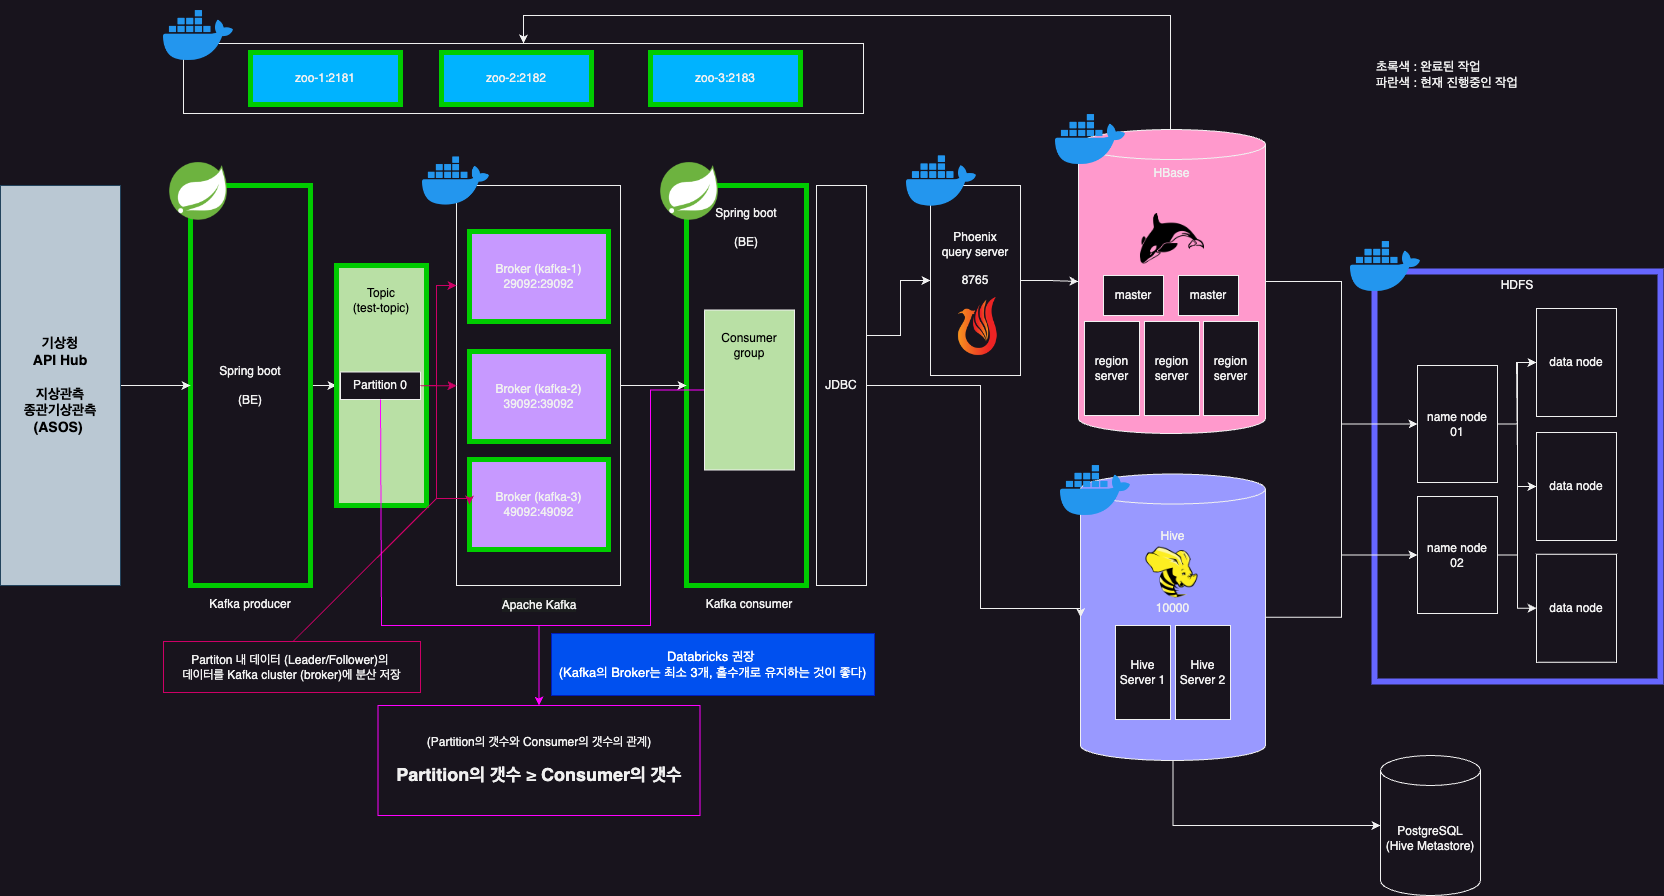
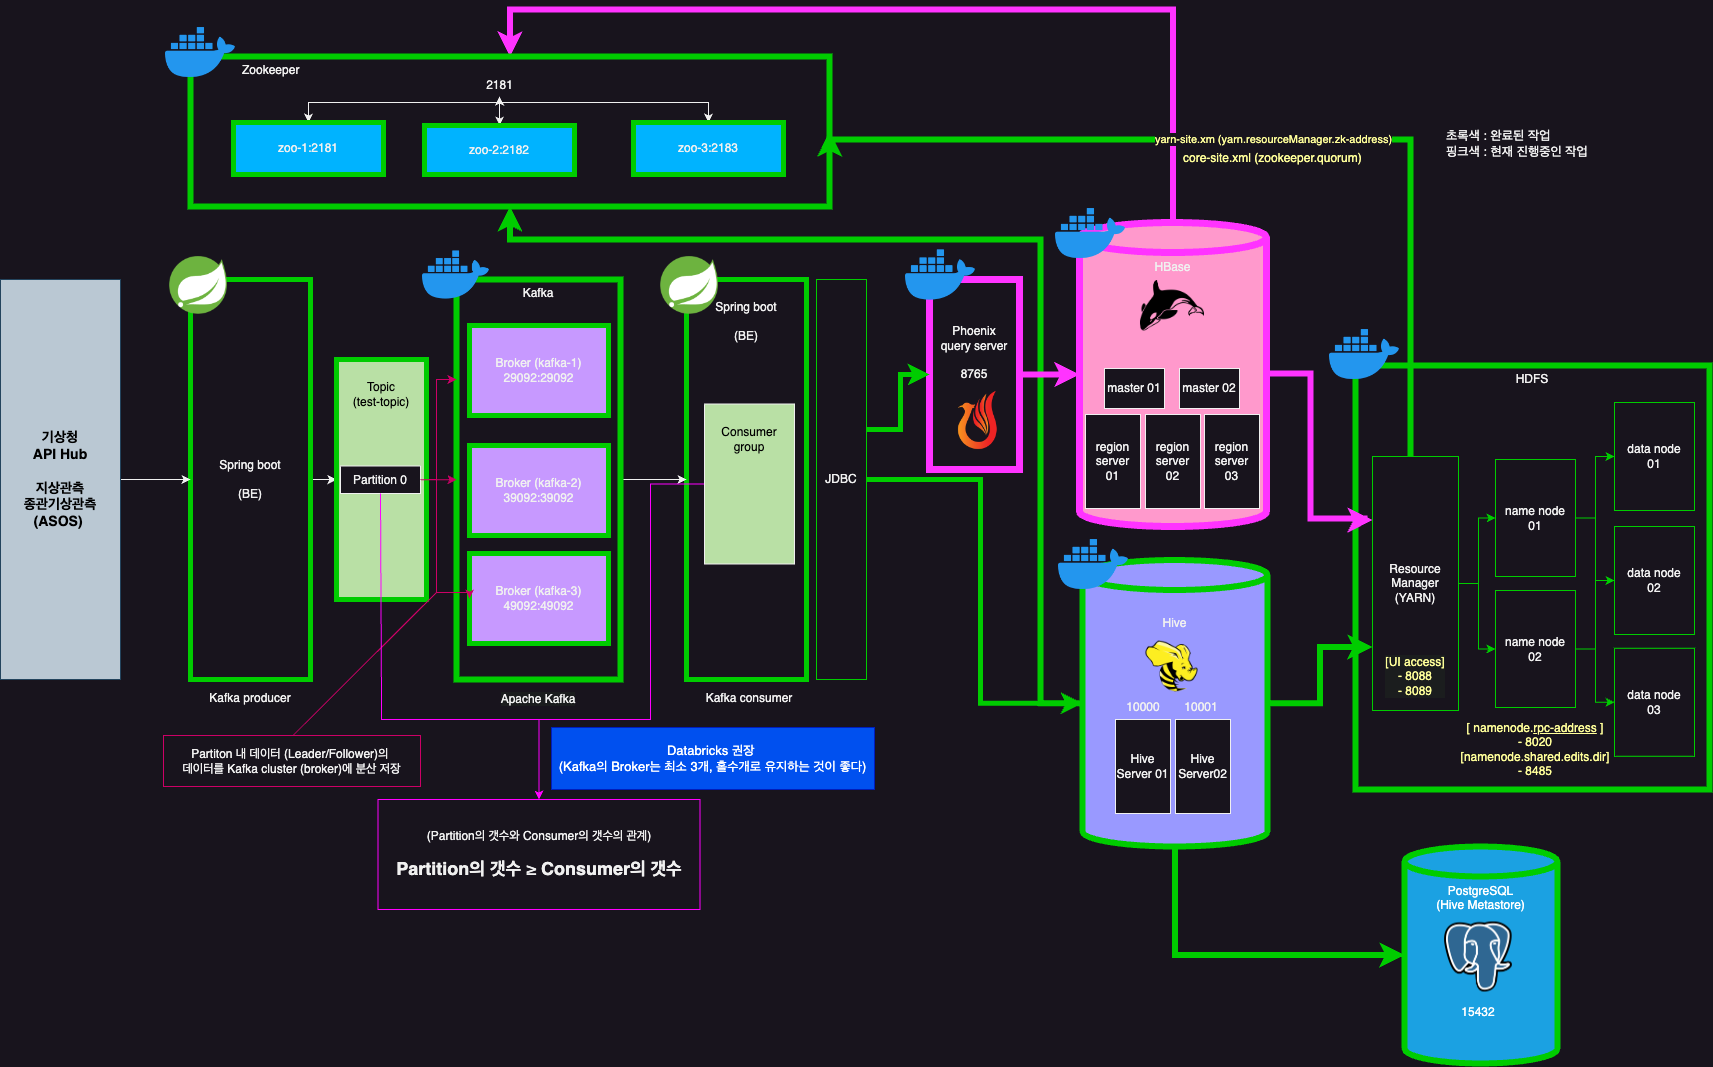
docs/feat: README.md 파일 및 installer.py 파일 수정

Changed region(s): [[0.0, 0.0, 1.0, 1.0]]

diff --git a/installer.py b/installer.py
@@ -19,13 +19,29 @@
 # /******************************************************************/
 import os
 import sys
+import time
 
-if sys.argv[1] == "hdfs":
-    if sys.argv[2] == "build":
+if sys.argv[1] == "all":
+    if sys.argv[2] == "start":
+        time.sleep(2)
+        print("Hadoop 자체 이미지 생성이 시작되었습니다.")
         os.system("docker build -t hadoop_base:latest .")
-elif sys.argv[1] == "metastore":
-    if sys.argv[2] == "build":
+        print("Hadoop 자체 이미지 생성이 완료되었습니다.")
+        time.sleep(2)
+        print("PostgreSQL 15.6 공식 이미지 Pull이 시작되었습니다.")
         os.system("docker pull postgres:15.6")
-elif sys.argv[1] == "hive":
-    if sys.argv[2] == "build":
+        print("PostgreSQL 15.6 공식 이미지 Pull이 완료되었습니다.")
+        time.sleep(2)
+        print("Hive 자체 이미지 생성이 시작되었습니다.")
         os.system("cd ./hive && docker build -t hive_base:latest .")
+        print("Hive 자체 이미지 생성이 완료되었습니다.")
+        time.sleep(2)
+        print("confluentinc/cp-kafka 7.4.4 공식 이미지 Pull이 시작되었습니다.")
+        os.system("docker pull confluentinc/cp-kafka:7.4.4")
+        print("confluentinc/cp-kafka 7.4.4 공식 이미지 Pull이 완료되었습니다.")
+        time.sleep(2)
+        print("zookeeper:latest 공식 이미지 Pull이 시작되었습니다.")     
+        os.system("docker pull zookeeper:latest")
+        print("zookeeper:latest 공식 이미지 Pull이 완료되었습니다.")     
+        time.sleep(3)
+        os.system("docker-compose up -d")

diff --git a/README.md b/README.md
@@ -10,11 +10,14 @@
 *                    
 * Revision History  :
 * Date		      Author 			Comments
-  2024/04/18  이현기 (Lee Hyungi)     초안 작성
-* ------------------------------------------------------------------
-* 2024/04/17  README.md	            (초안 작성) Hadoop EcoSystem 구성 및 설정내용 작성
+  2024/04/17  이현기 (Lee Hyungi)     초안 작성
+* -----------------------------------------------------------------------------
+* 2024/04/18        	            (초안 작성) Hadoop EcoSystem 구성 및 설정내용 작성
                                               설치 순서 상세내용 작성
-* ------------------------------------------------------------------
+* -----------------------------------------------------------------------------
+* 2024/04/19        	            (초안 작성) Hive, Postgres 구성 및 설정내용 작성
+                                              종합 설치 방법에 대해 상세내용 작성
+* -----------------------------------------------------------------------------
 * 
 /****************************************************************************/
 ```
@@ -36,54 +39,63 @@
         <th style="text-align: center">component</th>
         <th style="text-align: center">image</th>
         <th style="text-align: center">version</th>
+        <th style="text-align: center">release date</th>
     </tr>
     <tr style="text-align: center">
         <td class="complete">1</td>
         <td class="complete">Zookeeper</td>
         <td class="complete">Docker official image</td>
         <td class="complete">3.9.2</td>
+        <td class="complete">2024/04/16</td>
     </tr>
     <tr style="text-align: center">
         <td class="complete">2</td>
         <td class="complete">Kafka</td>
         <td class="complete">Official Confluent Docker Image <br/>(Community)</td>
         <td class="complete">7.4.4</td>
+        <td class="complete">2024/04/11</td>
     </tr>
     <tr style="text-align: center">
         <td class="complete">3</td>
         <td class="complete">Hadoop</td>
         <td class="complete">자체 제작 이미지 사용</td>
         <td class="complete">3.3.6</td>
+        <td class="complete">2023/06/23</td>
     </tr>
     <tr style="text-align: center">
         <td class="complete">4</td>
         <td class="complete">Hive</td>
         <td class="complete">자체 제작 이미지 사용</td>
         <td class="complete">4.0.0</td>
+        <td class="complete">2024/03/29</td>
     </tr>
     <tr style="text-align: center">
         <td class="complete">5</td>
         <td class="complete">Tez</td>
         <td class="complete">Hive 이미지 생성시 내부에 Engine 설치 및 환경설정</td>
         <td class="complete">0.10.3</td>
+        <td class="complete">2024/01/31</td>
     </tr>
     <tr style="text-align: center">
-        <td>6</td>
-        <td>HBase</td>
-        <td>자체 제작 이미지 사용</td>
-        <td>2.5.8</td>
+        <td class="progress">6</td>
+        <td class="progress">HBase</td>
+        <td class="progress">자체 제작 이미지 사용</td>
+        <td class="progress">2.5.8</td>
+        <td class="progress">2024/03/12</td>
     </tr>
     <tr style="text-align: center">
-        <td>7</td>
-        <td>Phoenix</td>
-        <td>자체 제작 이미지 사용</td>
-        <td>5.1.3</td>
+        <td class="progress">7</td>
+        <td class="progress">Phoenix</td>
+        <td class="progress">자체 제작 이미지 사용</td>
+        <td class="progress">5.2.0</td>
+        <td class="progress">2024/04/16</td>
     </tr>
     <tr style="text-align: center">
         <td class="complete">8</td>
         <td class="complete">PostgreSQL</td>
         <td class="complete">Docker official image</td>
         <td class="complete">15.6</td>
+        <td class="complete">2024/02/08</td>
     </tr>
 </table>
 
@@ -178,9 +190,9 @@
         <td class="complete">Hive 내부에 구성</td>
     </tr>
     <tr style="text-align: center">
-        <td>6</td>
-        <td>HBase</td>
-        <td>
+        <td class="progress">6</td>
+        <td class="progress">HBase</td>
+        <td class="progress">
             <div class="align-center">
                 [HMaster 01 / 02] <br/> - 16000 / TBD
             </div>
@@ -189,13 +201,31 @@
                 [HRegionServer 01 / 02 / 03] <br/> - 16020 / TBD / TBD
             </div>
         </td>
-        <td></td>
+        <td class="progress">
+            <div class="align-center">
+                [Zookeeper] <br/>- zoo-1<br/>- zoo-2<br/>- zoo-3
+            </div>
+            <br/>        
+            <div class="align-center">
+                [Hadoop] <br/>- nn01<br/>- nn02<br/>- dn01<br/>- dn02<br/>- dn03
+            </div>        
+        </td>
     </tr>
     <tr style="text-align: center">
-        <td>7</td>
-        <td>Phoenix</td>
-        <td>8765</td>
-        <td></td>
+        <td class="progress">7</td>
+        <td class="progress">Phoenix</td>
+        <td class="progress">8765</td>
+        <td class="progress">
+            <div class="align-center">
+                [Zookeeper] <br/>- zoo-1<br/>- zoo-2<br/>- zoo-3
+            </div>        
+            <div class="align-center">
+                [Hadoop] <br/>- nn01<br/>- nn02<br/>- dn01<br/>- dn02<br/>- dn03
+            </div>        
+            <div class="align-center">
+                [HBase] <br/>- master01<br/>- master02<br/>- region_server01<br/>- region_server02<br/>- region_server03
+            </div>        
+        </td>
     </tr>
     <tr style="text-align: center">
         <td class="complete">8</td>
@@ -205,22 +235,12 @@
     </tr>
 </table>
 
-### <u>설치 순서</u>
+### <u>설치 방법</u>
 
-(1) Hadoop 설치하기
+(1) Hadoop EcoSystem 설치하기
 
-- hadoop_base 이미지 빌드하기
+- 아래 명령어를 실행하면, 필요한 도커 이미지 빌드 및 docker-compose.yml 파일이 실행됩니다.
+
     ```zsh   
-    $ python installer.py hdfs build
+    $ python installer.py all start
     ```
-
-- postgreSQL 이미지 빌드하기
-    ```zsh
-    $ python installer.py 
-    ```
-
-(1) Zookeeper가 설치된다.
-
-(2) Kafka broker 컨테이너는 Zookeepeer 컨테이너들이 올라간 후에 설치를 진행한다.
-
-(3) 
